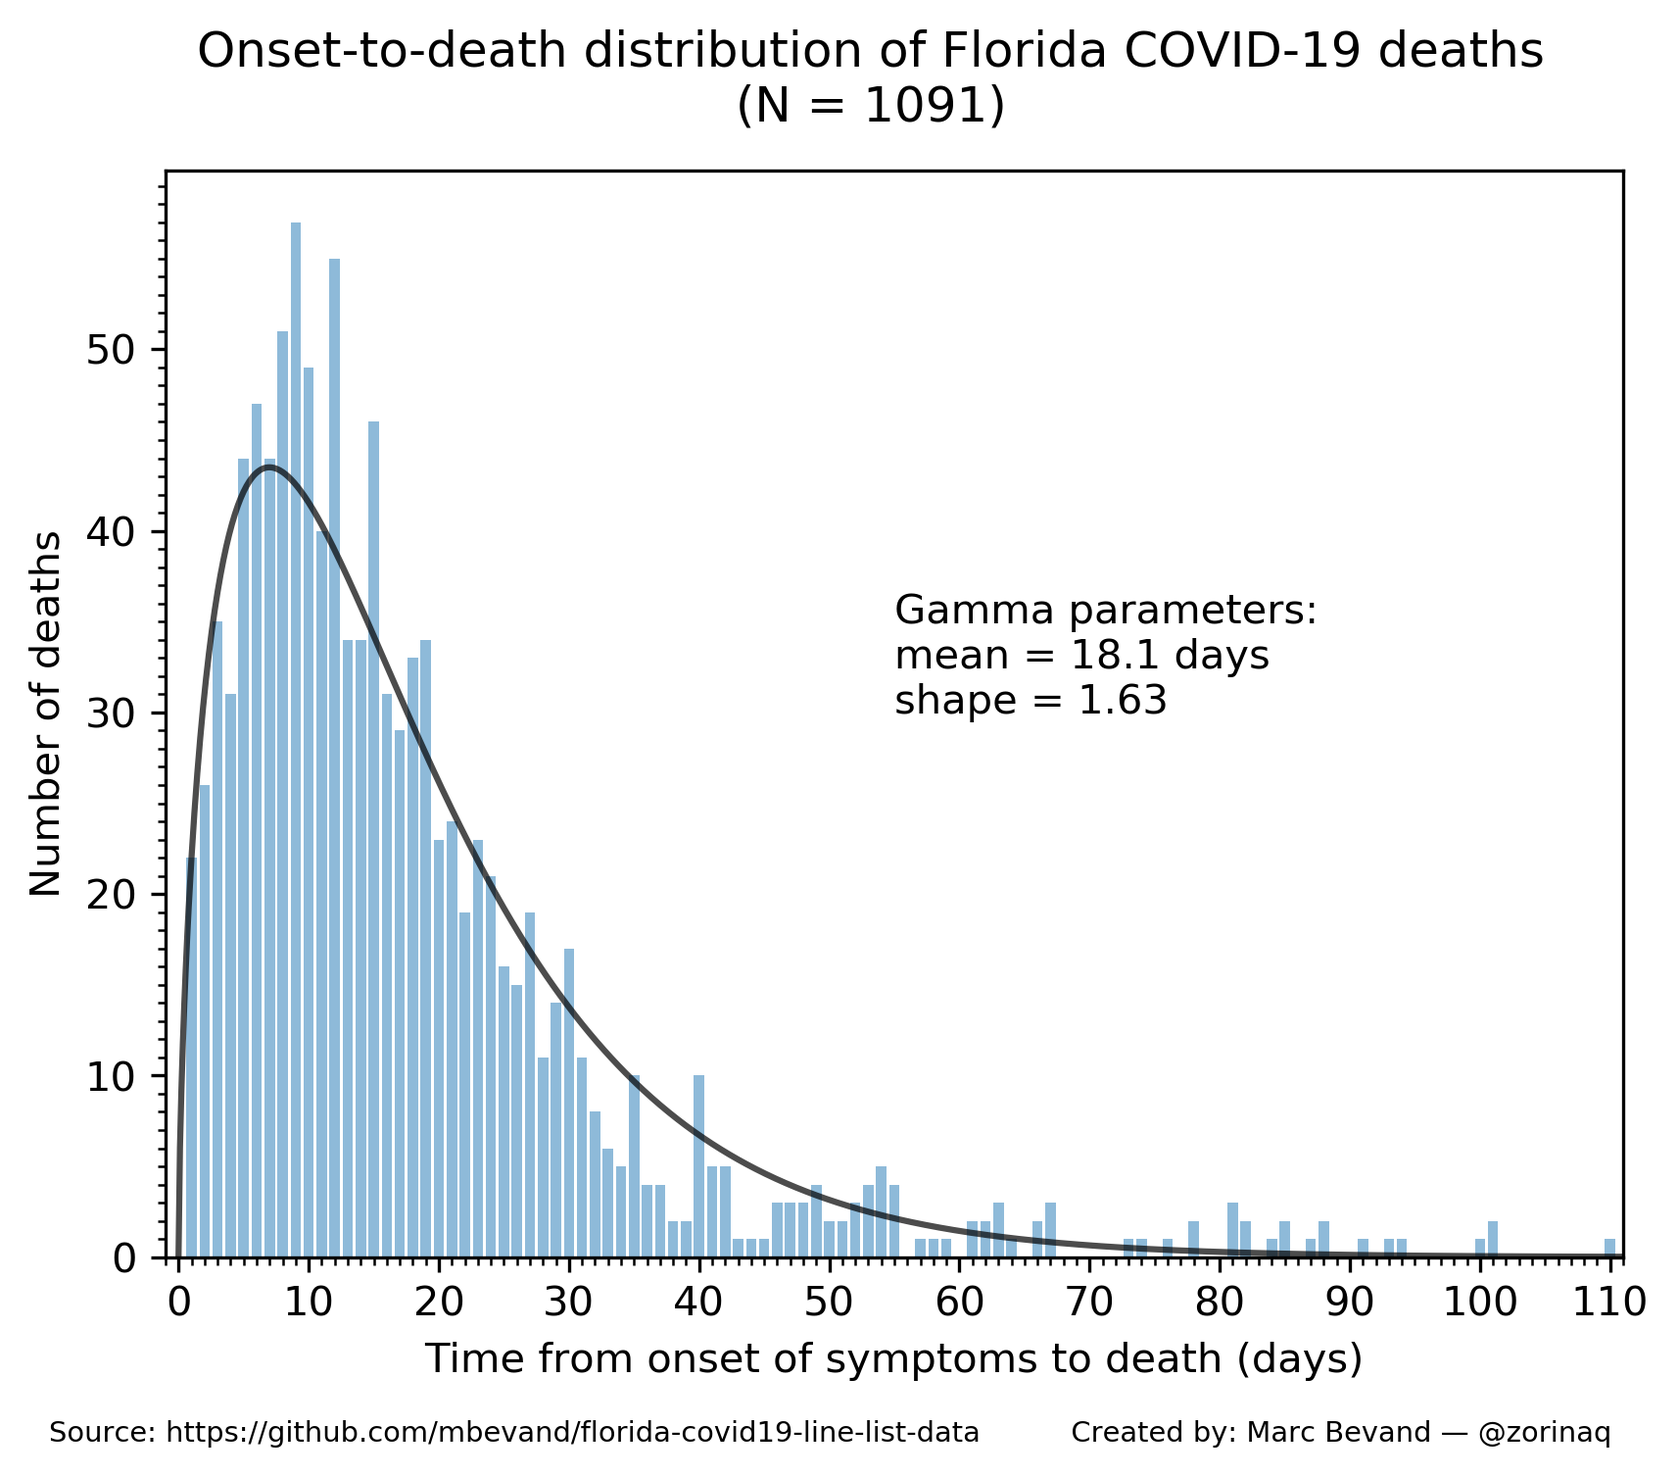
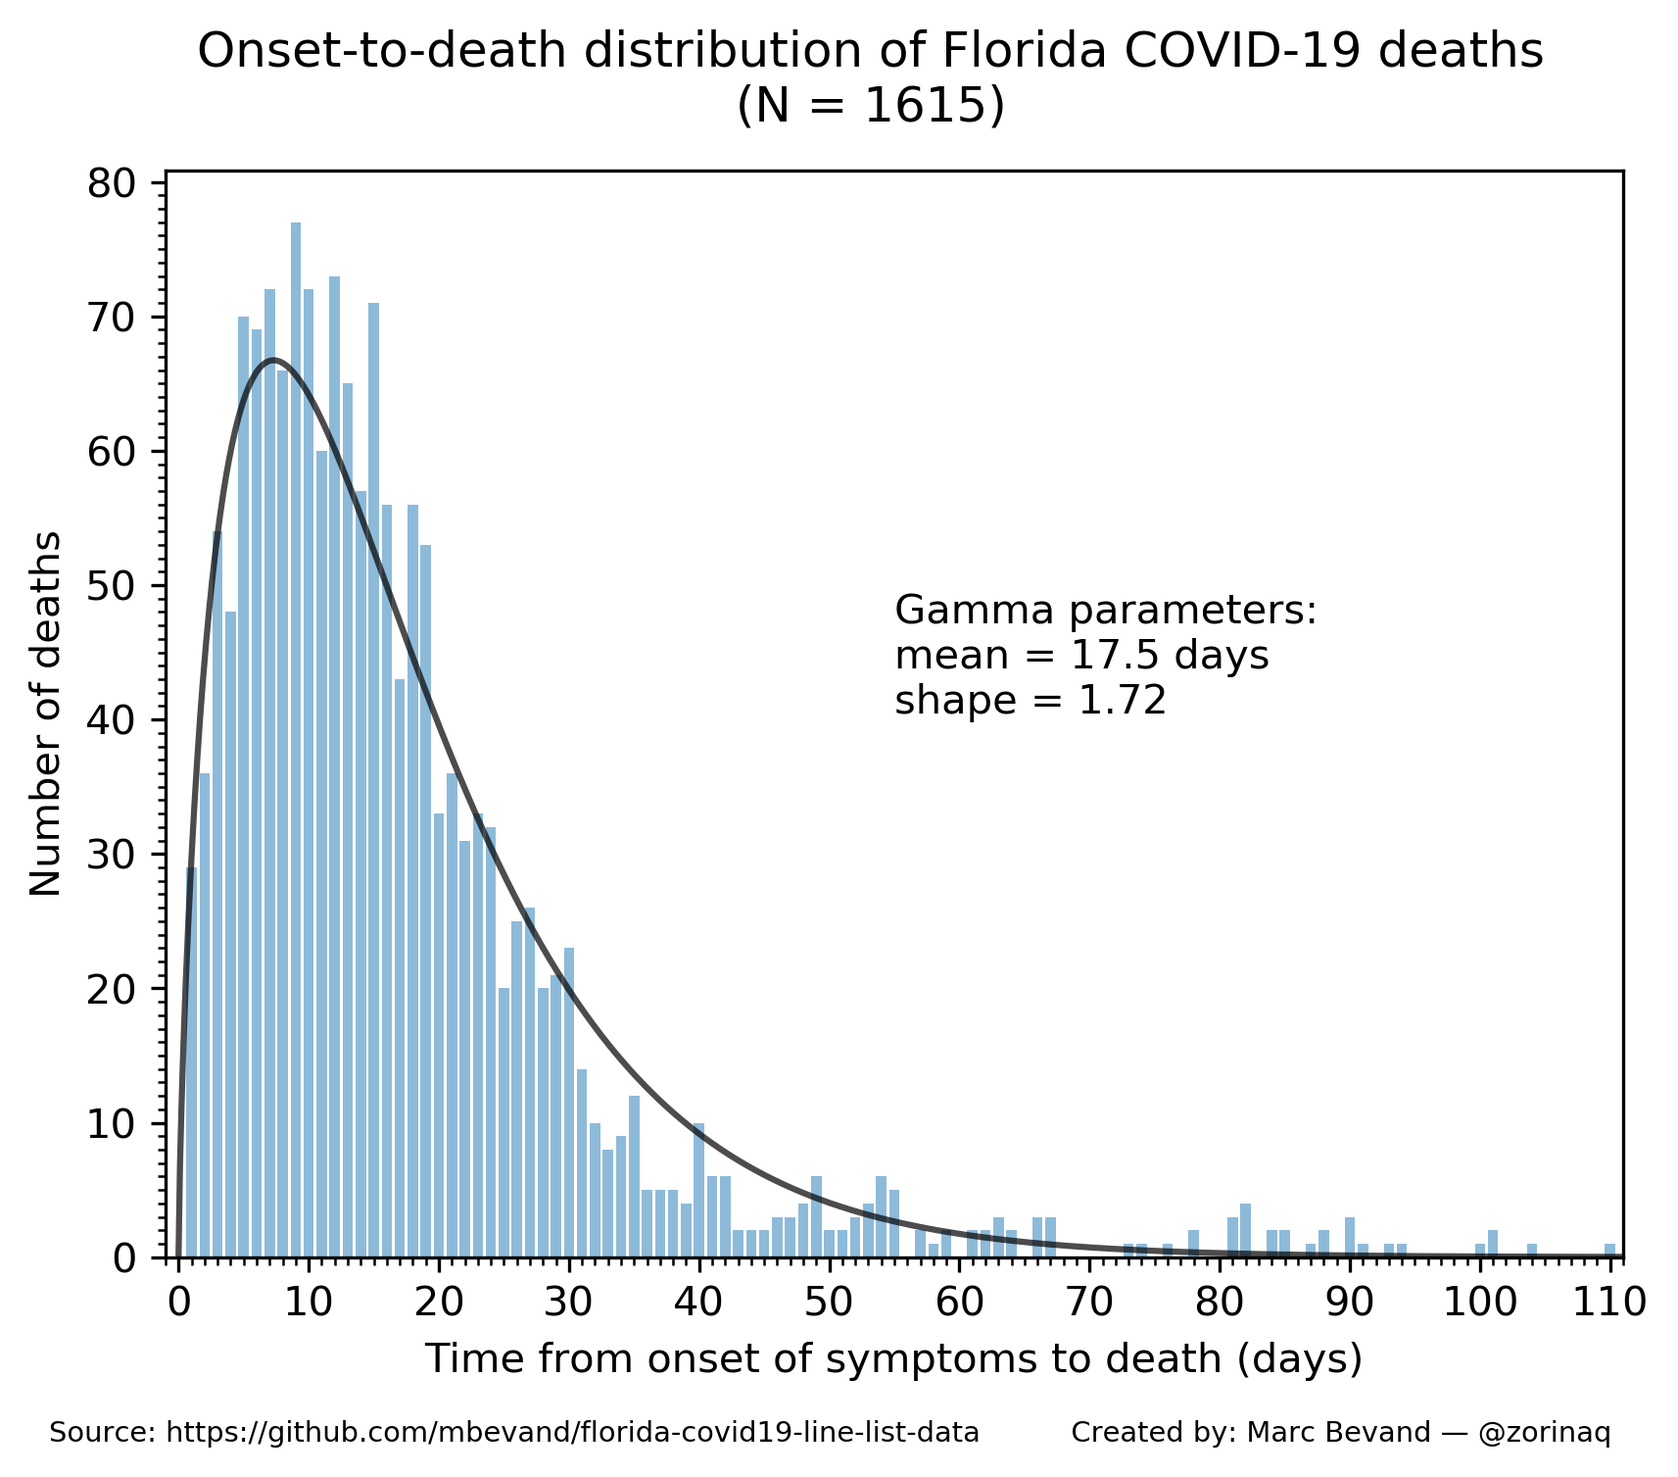
new forecast, new heatmap as of 2020-07-18

diff --git a/forecast_deaths.py b/forecast_deaths.py
@@ -19,7 +19,7 @@ csv_url = 'https://opendata.arcgis.com/datasets/37abda537d17458bae6677b8ab75fcb9
 csv_actual_deaths = 'data_deaths/fl_resident_deaths.csv'
 
 # Mean time (in days) from onset of symptoms to death, calculated by gamma.py
-o2d = 18.1
+o2d = 17.5
 
 # Number of days to calculate the centered moving average of the chart curves
 cma_days = 7
@@ -100,14 +100,14 @@ cfr_models = [
             # This does not affect the forecast much because the average CFR is only used with cases
             # of unknown age.
             0.0 / 100, {
-                (0, 29):  0.042 / 100,
-                (30, 39): 0.108 / 100,
-                (40, 49): 0.282 / 100,
-                (50, 59): 0.634 / 100,
-                (60, 69): 2.027 / 100,
-                (70, 79): 5.902 / 100,
-                (80, 89): 14.513 / 100,
-                (90, 199): 25.479 / 100,
+                (0, 29):  0.047 / 100,
+                (30, 39): 0.128 / 100,
+                (40, 49): 0.199 / 100,
+                (50, 59): 0.553 / 100,
+                (60, 69): 2.007 / 100,
+                (70, 79): 5.699 / 100,
+                (80, 89): 14.678 / 100,
+                (90, 199): 24.648 / 100,
                 }
             ),
         ]

diff --git a/age_stratified_cfr.py b/age_stratified_cfr.py
@@ -196,7 +196,7 @@ def main():
         data[date][b].deaths += 1 if died else 0
         data[date][b].cases += 1
     # Parameters of the Gamma distribution of onset-to-death, calculated by gamma.py
-    mean, shape = 18.1, 1.63
+    mean, shape = 17.5, 1.72
     calc_cfr(data, mean, shape)
     #print_stats(data)
     gen_chart(data, mean, shape)

diff --git a/README.md b/README.md
@@ -1,6 +1,6 @@
 # Forecasting deaths and analyzing age trends of COVID-19 cases in Florida
 
-*Updated: 17 July 2020*
+*Updated: 18 July 2020*
 
 Authors: Marc Bevand
 
@@ -60,13 +60,13 @@ important that we feed it CFR estimates, not IFR estimates. Infection Fatality
 Ratios take into account *undetected* cases and thus would not be consistent
 with line list data.
 
-Then the script assumes death occurs on average 18.1 days after infection,
+Then the script assumes death occurs on average 17.5 days after infection,
 which is the mean onset-to-death time calculated by `gamma.py`.
 
 Finally, it charts the forecast (`forecast_deaths.png`). The curves are all
 smoothed with a 7-day centered moving average.
 
-The end result is a simple tool that can not only predict deaths up to ~18.1
+The end result is a simple tool that can not only predict deaths up to ~17.5
 days ahead of time, but can also estimate *past* deaths accurately: notice how
 the colored curves in the generated chart follow closely the black curve
 (actual deaths.)
@@ -145,73 +145,78 @@ Parsing data_fdoh/2020-07-10-09-46-54.csv
 Parsing data_fdoh/2020-07-11-11-04-49.csv
 Parsing data_fdoh/2020-07-12-09-53-27.csv
 Parsing data_fdoh/2020-07-13-07-57-16.csv
-Parsing data_fdoh/2020-07-14-12-14-55.csv
-Onset-to-death times (in days): [16, 7, 27, 20, 29, 32, 22, 15, 26, 31, 15, 20,
-30, 5, 8, 3, 5, 5, 15, 3, 15, 32, 16, 78, 26, 23, 35, 17, 9, 10, 8, 16, 8, 25,
-22, 27, 15, 15, 9, 2, 12, 6, 8, 12, 10, 8, 9, 1, 4, 7, 24, 23, 84, 24, 74, 24,
-100, 62, 3, 4, 85, 9, 81, 14, 6, 67, 67, 54, 19, 20, 54, 17, 5, 64, 4, 2, 35,
-28, 8, 39, 31, 22, 28, 23, 16, 28, 16, 32, 8, 8, 19, 21, 9, 16, 12, 7, 10, 7,
-6, 16, 5, 11, 6, 6, 7, 6, 4, 8, 12, 3, 3, 7, 2, 7, 4, 2, 10, 24, 7, 1, 81, 88,
-24, 61, 29, 59, 51, 18, 49, 38, 18, 10, 33, 46, 49, 40, 5, 39, 37, 33, 30, 30,
-35, 26, 16, 3, 36, 20, 23, 19, 21, 6, 15, 10, 7, 8, 11, 20, 9, 14, 7, 14, 8,
-29, 4, 8, 5, 12, 5, 2, 9, 2, 8, 1, 9, 94, 28, 78, 18, 47, 76, 66, 63, 10, 42,
-21, 10, 58, 10, 19, 55, 7, 55, 47, 66, 19, 21, 40, 9, 40, 30, 27, 32, 23, 29,
-31, 25, 16, 17, 11, 15, 15, 13, 15, 15, 11, 14, 10, 12, 10, 9, 10, 11, 9, 9, 6,
-9, 9, 9, 18, 12, 11, 7, 6, 13, 2, 42, 3, 5, 4, 1, 12, 2, 5, 33, 11, 9, 9, 5,
-53, 11, 9, 5, 12, 35, 23, 9, 1, 5, 13, 6, 53, 10, 49, 49, 27, 19, 53, 41, 31,
-26, 23, 23, 28, 15, 35, 41, 46, 19, 16, 13, 18, 27, 15, 10, 14, 12, 15, 14, 12,
-7, 8, 6, 6, 6, 3, 8, 3, 25, 20, 101, 9, 8, 22, 18, 9, 11, 1, 6, 6, 17, 9, 2,
-25, 17, 4, 5, 5, 24, 13, 29, 24, 26, 13, 30, 16, 11, 12, 12, 10, 15, 14, 11, 3,
-3, 6, 28, 8, 8, 15, 23, 46, 1, 3, 34, 22, 19, 10, 10, 25, 12, 29, 22, 10, 19,
-12, 6, 6, 9, 18, 8, 12, 4, 11, 5, 1, 13, 6, 25, 11, 17, 10, 8, 5, 53, 5, 9, 18,
-40, 40, 40, 21, 19, 25, 21, 18, 18, 19, 17, 18, 14, 15, 25, 12, 8, 20, 10, 10,
-9, 15, 15, 11, 14, 14, 17, 6, 17, 8, 8, 7, 6, 9, 6, 8, 17, 3, 4, 6, 2, 1, 42,
-26, 48, 23, 20, 22, 18, 22, 23, 20, 18, 26, 16, 17, 24, 14, 13, 19, 16, 24, 22,
-10, 11, 11, 9, 13, 16, 11, 8, 13, 10, 17, 15, 30, 10, 87, 73, 12, 61, 42, 15,
-3, 10, 9, 8, 15, 8, 8, 15, 11, 11, 6, 5, 9, 4, 4, 8, 13, 10, 10, 9, 3, 3, 7, 2,
-9, 8, 12, 52, 16, 29, 27, 29, 31, 26, 20, 16, 18, 15, 14, 13, 24, 12, 4, 2, 9,
-10, 7, 4, 5, 15, 8, 1, 13, 36, 11, 5, 4, 20, 4, 6, 3, 1, 6, 40, 43, 7, 8, 6, 1,
-48, 67, 3, 51, 15, 33, 54, 4, 12, 23, 29, 11, 11, 33, 40, 34, 28, 35, 36, 31,
-31, 24, 21, 23, 29, 30, 30, 25, 27, 20, 16, 54, 110, 13, 101, 17, 29, 19, 7,
-82, 34, 19, 11, 10, 5, 7, 63, 26, 88, 52, 23, 11, 30, 17, 20, 26, 19, 27, 20,
-18, 15, 17, 18, 17, 21, 22, 16, 15, 12, 13, 15, 14, 18, 13, 14, 14, 12, 17, 17,
-18, 13, 14, 14, 19, 10, 9, 11, 14, 12, 10, 12, 8, 8, 12, 9, 7, 7, 8, 8, 7, 7,
-10, 8, 8, 8, 13, 12, 11, 5, 10, 6, 12, 2, 6, 12, 1, 2, 12, 6, 3, 2, 12, 2, 3,
-1, 2, 1, 8, 1, 5, 11, 19, 8, 85, 12, 28, 16, 7, 7, 7, 22, 6, 22, 7, 2, 45, 16,
-35, 35, 29, 25, 31, 24, 24, 29, 33, 30, 32, 82, 27, 24, 25, 18, 31, 16, 22, 19,
-19, 15, 15, 20, 18, 15, 14, 26, 15, 22, 15, 13, 14, 12, 27, 13, 15, 14, 13, 9,
-11, 12, 9, 12, 12, 11, 9, 10, 8, 9, 9, 7, 14, 23, 7, 7, 10, 14, 11, 5, 9, 15,
-6, 6, 5, 18, 5, 3, 4, 6, 9, 4, 3, 2, 8, 8, 20, 3, 10, 10, 11, 20, 1, 19, 16, 2,
-20, 91, 54, 55, 6, 30, 6, 10, 9, 62, 13, 40, 9, 21, 3, 50, 44, 34, 37, 35, 25,
-30, 50, 34, 24, 31, 27, 21, 26, 63, 26, 28, 29, 31, 23, 27, 32, 20, 21, 30, 21,
-21, 19, 19, 22, 22, 15, 17, 16, 17, 17, 19, 14, 27, 17, 27, 14, 14, 11, 15, 14,
-13, 18, 23, 16, 13, 10, 11, 12, 8, 12, 18, 10, 21, 12, 12, 8, 9, 5, 4, 6, 13,
-11, 7, 5, 4, 9, 6, 2, 12, 2, 2, 1, 5, 9, 14, 13, 3, 1, 1, 10, 42, 57, 15, 21,
-47, 48, 15, 21, 27, 37, 24, 22, 28, 5, 25, 22, 21, 27, 19, 15, 18, 23, 16, 13,
-12, 11, 14, 16, 12, 13, 11, 12, 12, 7, 9, 5, 7, 7, 7, 3, 6, 5, 5, 1, 2, 30, 5,
-22, 4, 4, 30, 30, 14, 41, 35, 27, 24, 21, 23, 18, 19, 18, 19, 16, 30, 18, 20,
-18, 14, 17, 12, 10, 12, 10, 7, 14, 2, 10, 9, 7, 10, 9, 18, 5, 93, 23, 14, 24,
-81, 6, 11, 16, 2, 41, 5, 10, 21, 21, 40, 37, 36, 55, 27, 38, 41, 28, 32, 26,
-25, 25, 27, 25, 21, 23, 21, 20, 23, 19, 18, 26, 17, 19, 20, 18, 32, 19, 18, 19,
-24, 19, 17, 20, 23, 16, 17, 18, 24, 16, 24, 15, 21, 12, 15, 19, 16, 14, 17, 13,
-12, 15, 13, 13, 11, 21, 13, 19, 15, 19, 12, 52, 12, 15, 17, 13, 11, 9, 12, 17,
-9, 10, 10, 7, 11, 8, 8, 9, 6, 9, 10, 7, 9, 7, 7, 9, 9, 8, 8, 6, 6, 5, 5, 6, 6,
-6, 6, 12, 7, 4, 5, 9, 12, 5, 13, 5, 4, 4, 7, 3, 3, 8, 7, 3, 3, 12, 4, 4, 3, 4,
-4, 3, 3, 3, 3, 5, 1, 5, 4]
-Number of deaths: 1091
+Parsing data_fdoh/2020-07-14-14-09-16.csv
+Parsing data_fdoh/2020-07-15-09-09-26.csv
+Parsing data_fdoh/2020-07-16-07-58-41.csv
+Parsing data_fdoh/2020-07-17-09-17-34.csv
+Parsing data_fdoh/2020-07-18-08-58-55.csv
+Onset-to-death times (in days): [16, 7, 27, 20, 29, 32, 22, 15, 26, 31 , 15,
+20, 30, 5, 8, 3, 5, 5, 15, 3, 15, 32, 16, 78, 26, 23, 35, 17, 9, 10, 8, 16, 8,
+25, 22, 27, 15, 15, 9, 2, 12, 6, 8, 12, 10, 8, 9, 1, 4, 7, 24, 23, 84, 24, 74,
+24, 100, 62, 3, 4, 85, 9, 81, 14, 6, 67, 67, 5 4, 19, 20, 54, 17, 5, 64, 4, 2,
+35, 28, 8, 39, 31, 22, 28, 23, 16, 28, 16, 32, 8, 8, 19, 21, 9, 16, 12, 7, 10,
+7, 6, 16, 5, 11, 6, 6, 7, 6, 4, 8, 12, 3, 3, 7, 2, 7, 4, 2, 10, 24, 7, 1, 81,
+88, 24, 61, 29, 59, 5 1, 18, 49, 38, 18, 10, 33, 46, 49, 40, 5, 39, 37, 33, 30,
+30, 35, 26, 16, 3, 36, 20, 23, 19, 21, 6, 15, 10, 7, 8, 11, 20, 9, 14, 7, 14,
+8, 2 9, 4, 8, 5, 12, 5, 2, 9, 2, 8, 1, 9, 94, 28, 78, 18, 47, 76, 66, 63, 1 0,
+42, 21, 10, 58, 10, 19, 55, 7, 55, 47, 66, 19, 21, 40, 9, 40, 30, 2 7, 32, 23,
+29, 31, 25, 16, 17, 11, 15, 15, 13, 15, 15, 11, 14, 10, 12, 10, 9, 10, 11, 9,
+9, 6, 9, 9, 9, 18, 12, 11, 7, 6, 13, 2, 42, 3, 5, 4 , 1, 12, 2, 5, 33, 11, 9,
+9, 5, 53, 11, 9, 5, 12, 35, 23, 9, 1, 5, 13, 6, 53, 10, 49, 49, 27, 19, 53, 41,
+31, 26, 23, 23, 28, 15, 35, 41, 46 , 19, 16, 13, 18, 27, 15, 10, 14, 12, 15,
+14, 12, 7, 8, 6, 6, 6, 3, 8, 3, 25, 20, 101, 9, 8, 22, 18, 9, 11, 1, 6, 6, 17,
+9, 2, 25, 17, 4, 5, 5, 24, 13, 29, 24, 26, 13, 30, 16, 11, 12, 12, 10, 15, 14,
+11, 3, 3, 6, 28, 8, 8, 15, 23, 46, 1, 3, 34, 22, 19, 10, 10, 25, 12, 29, 22,
+10, 19, 12, 6, 6, 9, 18, 8, 12, 4, 11, 5, 1, 13, 6, 25, 11, 17, 10, 8, 5, 53,
+5, 9, 18, 40, 40, 40, 21, 19, 25, 21, 18, 18, 19, 17, 18, 14, 15, 25, 12, 8,
+20, 10, 10, 9, 15, 15, 11, 14, 14, 17, 6, 17, 8, 8, 7, 6, 9, 6, 8, 17, 3, 4, 6,
+2, 1, 42, 26, 48, 23, 20, 22, 18, 22, 23, 20, 18 , 26, 16, 17, 24, 14, 13, 19,
+16, 24, 22, 10, 11, 11, 9, 13, 16, 11, 8 , 13, 10, 17, 15, 30, 10, 87, 73, 12,
+61, 42, 15, 3, 10, 9, 8, 15, 8, 8, 15, 11, 11, 6, 5, 9, 4, 4, 8, 13, 10, 10, 9,
+3, 3, 7, 2, 9, 8, 12, 52, 16, 29, 27, 29, 31, 26, 20, 16, 18, 15, 14, 13, 24,
+12, 4, 2, 9, 1 0, 7, 4, 5, 15, 8, 1, 13, 36, 11, 5, 4, 20, 4, 6, 3, 1, 6, 40,
+43, 7, 8, 6, 1, 48, 67, 3, 51, 15, 33, 54, 4, 12, 23, 29, 11, 11, 33, 40, 34,
+28, 35, 36, 31, 31, 24, 21, 23, 29, 30, 30, 25, 27, 20, 16, 54, 110, 13, 101,
+17, 29, 19, 7, 82, 34, 19, 11, 10, 5, 7, 63, 26, 88, 52, 23, 11, 30, 17, 20,
+26, 19, 27, 20, 18, 15, 17, 18, 17, 21, 22, 16, 15, 12 , 13, 15, 14, 18, 13,
+14, 14, 12, 17, 17, 18, 13, 14, 14, 19, 10, 9, 1 1, 14, 12, 10, 12, 8, 8, 12,
+9, 7, 7, 8, 8, 7, 7, 10, 8, 8, 8, 13, 12, 11, 5, 10, 6, 12, 2, 6, 12, 1, 2, 12,
+6, 3, 2, 12, 2, 3, 1, 2, 1, 8, 1, 5, 11, 19, 8, 85, 12, 28, 16, 7, 7, 7, 22, 6,
+22, 7, 2, 45, 16, 35, 35, 29, 25, 31, 24, 24, 29, 33, 30, 32, 82, 27, 24, 25,
+18, 31, 16, 2 2, 19, 19, 15, 15, 20, 18, 15, 14, 26, 15, 22, 15, 13, 14, 12,
+27, 13, 15, 14, 13, 9, 11, 12, 9, 12, 12, 11, 9, 10, 8, 9, 9, 7, 14, 23, 7, 7 ,
+10, 14, 11, 5, 9, 15, 6, 6, 5, 18, 5, 3, 4, 6, 9, 4, 3, 2, 8, 8, 20, 3, 10, 10,
+11, 20, 1, 19, 16, 2, 20, 91, 54, 55, 6, 30, 6, 10, 9, 62, 13, 40, 9, 21, 3,
+50, 44, 34, 37, 35, 25, 30, 50, 34, 24, 31, 27, 21, 26, 63, 26, 28, 29, 31, 23,
+27, 32, 20, 21, 30, 21, 21, 19, 19, 22, 2 2, 15, 17, 16, 17, 17, 19, 14, 27,
+17, 27, 14, 14, 11, 15, 14, 13, 18, 23, 16, 13, 10, 11, 12, 8, 12, 18, 10, 21,
+12, 12, 8, 9, 5, 4, 6, 13, 11, 7, 5, 4, 9, 6, 2, 12, 2, 2, 1, 5, 9, 14, 13, 3,
+1, 1, 10, 42, 57, 15, 21, 47, 48, 15, 21, 27, 37, 24, 22, 28, 5, 25, 22, 21,
+27, 19, 15 , 18, 23, 16, 13, 12, 11, 14, 16, 12, 13, 11, 12, 12, 7, 9, 5, 7, 7,
+7 , 3, 6, 5, 5, 1, 2, 30, 5, 22, 4, 4, 30, 30, 14, 41, 35, 27, 24, 21, 2 3, 18,
+19, 18, 19, 16, 30, 18, 20, 18, 14, 17, 12, 10, 12, 10, 7, 14, 2, 10, 9, 7, 10,
+9, 18, 5, 93, 23, 14, 24, 81, 6, 11, 16, 2, 41, 5, 10 , 21, 21, 40, 37, 36, 55,
+27, 38, 41, 28, 32, 26, 25, 25, 27, 25, 21, 23, 21, 20, 23, 19, 18, 26, 17, 19,
+20, 18, 32, 19, 18, 19, 24, 19, 17 , 20, 23, 16, 17, 18, 24, 16, 24, 15, 21,
+12, 15, 19, 16, 14, 17, 13, 12, 15, 13, 13, 11, 21, 13, 19, 15, 19, 12, 52, 12,
+15, 17, 13, 11, 9, 12, 17, 9, 10, 10, 7, 11, 8, 8, 9, 6, 9, 10, 7, 9, 7, 7, 9,
+9, 8, 8, 6, 6, 5, 5, 6, 6, 6, 6, 12, 7, 4, 5, 9, 12, 5, 13, 5, 4, 4, 7, 3, 3,
+8, 7, 3, 3, 12, 4, 4, 3, 4, 4, 3, 3, 3, 3, 5, 1, 5, 4, 14, 26, 23, 41, 18, 24,
+90, 18, 90, 11, 84, 4, 7, 3
+Number of deaths: 1615
 Gamma distribution params:
-mean = 18.1
-shape = 1.63
+mean = 17.5
+shape = 1.72
 ```
 
-A mean of 18.1 days is comparable to other published estimates, however our
-distribution is wider (ie. smaller shape parameter of 1.63) because many deaths
+A mean of 17.5 days is comparable to other published estimates, however our
+distribution is wider (ie. smaller shape parameter of 1.72) because many deaths
 occur in the long tail:
 * mean 17.8 days, shape 4.94 = 0.45<sup>-2</sup>, based on sample of 24 deaths: [Estimates of the severity of coronavirus disease 2019: a model-based analysis][verity]
 * mean 15.1 days, shape 5.1, based on sample of 3 deaths: [Estimating case fatality ratio of COVID-19 from observed cases outside China][althaus]
 
 We believe our distribution parameters are more accurate because
-they are based on a much larger sample of 1091 deaths. The long tail
+they are based on a much larger sample of 1615 deaths. The long tail
 may be the result of improved treatments that can maintain patients
 alive for a longer time.
 
@@ -233,30 +238,30 @@ of cases. `heatmap.py` also produces a numerical summary:
 
 ```
 $ ./heatmap.py
-Opening data_fdoh/2020-07-17-09-17-34.csv
+Opening data_fdoh/2020-07-18-08-58-55.csv
 Number of COVID-19 cases per 7-day time period in Florida by age bracket over time:
 period_start, 00-04, 05-09, 10-14, 15-19, 20-24, 25-29, 30-34, 35-39, 40-44, 45-49, 50-54, 55-59, 60-64, 65-69, 70-74, 75-79, 80-84, 85-89, 90+, median_age
-  2020-02-28,     0,     0,     0,     0,     1,     1,     0,     0,     0,     0,     1,     1,     2,     1,     2,     0,     0,     0,     0,  63.0
-  2020-03-06,     0,     0,     0,     0,     0,     0,     0,     0,     0,     1,     1,     3,     5,    10,     2,     3,     1,     0,     0,  66.5
-  2020-03-13,     0,     1,     0,    15,    33,    27,    25,    23,    26,    38,    31,    32,    33,    41,    24,    26,    11,     5,     6,  51.0
-  2020-03-20,     9,     4,    17,    42,   149,   159,   181,   161,   165,   200,   193,   203,   166,   169,   152,   129,    88,    31,    24,  50.0
-  2020-03-27,    24,    18,    18,    87,   381,   474,   552,   515,   528,   590,   614,   620,   519,   467,   434,   287,   201,   123,    73,  50.0
-  2020-04-03,    32,    22,    41,   108,   388,   533,   644,   578,   610,   680,   736,   701,   648,   605,   431,   345,   279,   163,   130,  51.0
-  2020-04-10,    37,    34,    44,   132,   365,   451,   468,   490,   525,   644,   618,   664,   559,   463,   379,   281,   230,   179,   167,  51.0
-  2020-04-17,    45,    35,    59,   148,   321,   417,   483,   473,   426,   498,   566,   548,   484,   359,   301,   288,   252,   212,   237,  51.0
-  2020-04-24,    35,    36,    55,   119,   285,   338,   342,   388,   331,   371,   409,   407,   328,   294,   231,   207,   186,   183,   179,  50.0
-  2020-05-01,    33,    34,    44,   135,   257,   328,   303,   306,   288,   343,   334,   341,   285,   261,   231,   230,   219,   191,   184,  51.0
-  2020-05-08,    42,    47,    46,   142,   318,   414,   447,   357,   374,   409,   383,   406,   339,   270,   246,   191,   212,   167,   148,  48.0
-  2020-05-15,    93,    90,    95,   182,   339,   414,   442,   471,   379,   439,   399,   436,   350,   260,   238,   199,   192,   189,   164,  47.0
-  2020-05-22,    80,    79,   111,   222,   391,   439,   502,   448,   446,   442,   362,   413,   300,   244,   158,   158,   140,   117,   102,  43.0
-  2020-05-29,   121,   147,   183,   340,   488,   566,   598,   591,   528,   532,   458,   481,   398,   300,   207,   191,   137,   114,   133,  42.0
-  2020-06-05,   234,   202,   248,   493,  1080,  1027,   916,   843,   676,   722,   662,   597,   485,   342,   280,   188,   177,   153,   148,  38.0
-  2020-06-12,   337,   313,   376,   959,  2477,  2130,  1889,  1605,  1315,  1301,  1202,  1069,   805,   568,   460,   342,   252,   191,   172,  36.0
-  2020-06-19,   601,   531,   644,  2230,  5515,  4641,  3816,  3003,  2513,  2470,  2249,  1910,  1391,  1013,   763,   566,   396,   273,   277,  34.0
-  2020-06-26,  1030,   928,  1034,  3301,  6973,  6795,  5814,  5002,  4259,  4112,  3960,  3376,  2648,  1932,  1411,   968,   686,   502,   409,  36.0
-  2020-07-03,  1119,  1171,  1454,  3857,  7144,  7143,  6684,  5688,  5146,  5352,  5097,  4580,  3366,  2465,  1817,  1380,   910,   589,   545,  38.0
-  2020-07-10,  1306,  1327,  1826,  4702,  8145,  8376,  8044,  7241,  6910,  6882,  6776,  6102,  4724,  3351,  2514,  1839,  1372,   929,   734,  40.0
-(Last period's data may be incomplete. Age unknown for 634 out of 327241 cases.)
+  2020-02-29,     0,     0,     0,     0,     1,     1,     0,     0,     0,     0,     1,     1,     2,     1,     2,     0,     0,     0,     0,  63.0
+  2020-03-07,     0,     0,     0,     0,     2,     2,     1,     1,     1,     4,     4,     4,     5,    13,     6,     5,     2,     0,     0,  65.0
+  2020-03-14,     0,     2,     0,    18,    40,    36,    34,    28,    30,    50,    40,    43,    48,    57,    31,    32,    19,     7,     8,  53.0
+  2020-03-21,     9,     4,    18,    45,   185,   185,   230,   211,   217,   225,   249,   266,   202,   197,   201,   149,   110,    45,    33,  51.0
+  2020-03-28,    29,    20,    25,   101,   407,   541,   605,   541,   566,   662,   673,   657,   585,   524,   450,   324,   219,   139,    80,  50.0
+  2020-04-04,    31,    22,    37,   111,   387,   494,   612,   567,   594,   671,   718,   700,   629,   585,   420,   327,   271,   167,   138,  51.0
+  2020-04-11,    41,    35,    49,   137,   359,   475,   469,   513,   529,   640,   616,   652,   535,   435,   362,   285,   227,   174,   168,  50.0
+  2020-04-18,    48,    37,    57,   143,   313,   393,   465,   439,   401,   457,   529,   510,   458,   345,   284,   269,   240,   201,   229,  51.0
+  2020-04-25,    29,    36,    57,   118,   274,   322,   329,   374,   312,   370,   399,   405,   325,   307,   249,   209,   197,   191,   179,  51.0
+  2020-05-02,    35,    35,    44,   131,   275,   349,   340,   321,   315,   350,   321,   355,   294,   247,   215,   222,   211,   188,   180,  50.0
+  2020-05-09,    42,    44,    46,   137,   281,   372,   390,   338,   339,   371,   369,   384,   324,   256,   244,   183,   214,   173,   149,  49.0
+  2020-05-16,   102,   100,    97,   204,   362,   434,   472,   485,   413,   478,   424,   443,   348,   280,   229,   219,   183,   178,   171,  46.0
+  2020-05-23,    81,    78,   119,   225,   395,   453,   511,   457,   447,   439,   348,   425,   310,   223,   161,   150,   138,   115,    98,  42.0
+  2020-05-30,   154,   163,   208,   381,   549,   632,   634,   658,   559,   569,   505,   487,   402,   314,   224,   181,   137,   116,   133,  41.0
+  2020-06-06,   238,   213,   261,   543,  1259,  1178,  1079,   959,   762,   810,   761,   683,   552,   387,   300,   225,   201,   163,   173,  38.0
+  2020-06-13,   357,   337,   418,  1089,  2842,  2396,  2030,  1712,  1422,  1390,  1250,  1129,   845,   602,   482,   355,   251,   195,   163,  35.0
+  2020-06-20,   705,   611,   699,  2587,  6245,  5398,  4445,  3554,  2942,  2884,  2649,  2235,  1629,  1184,   876,   642,   457,   311,   303,  34.0
+  2020-06-27,  1017,   954,  1109,  3367,  7156,  6910,  6047,  5127,  4459,  4306,  4154,  3592,  2748,  2004,  1442,  1016,   683,   493,   401,  36.0
+  2020-07-04,  1132,  1200,  1474,  3790,  6552,  6769,  6429,  5549,  5048,  5348,  5082,  4572,  3451,  2529,  1890,  1422,   995,   646,   580,  39.0
+  2020-07-11,  1305,  1335,  1830,  4692,  8049,  8247,  7931,  7205,  6958,  6860,  6837,  6148,  4714,  3389,  2555,  1880,  1388,   937,   787,  40.0
+(Last period's data may be incomplete. Age unknown for 633 out of 337569 cases.)
 ```
 
 By default the size of each pixel, or *bucket*, is 5-year age brackets and 7-day
